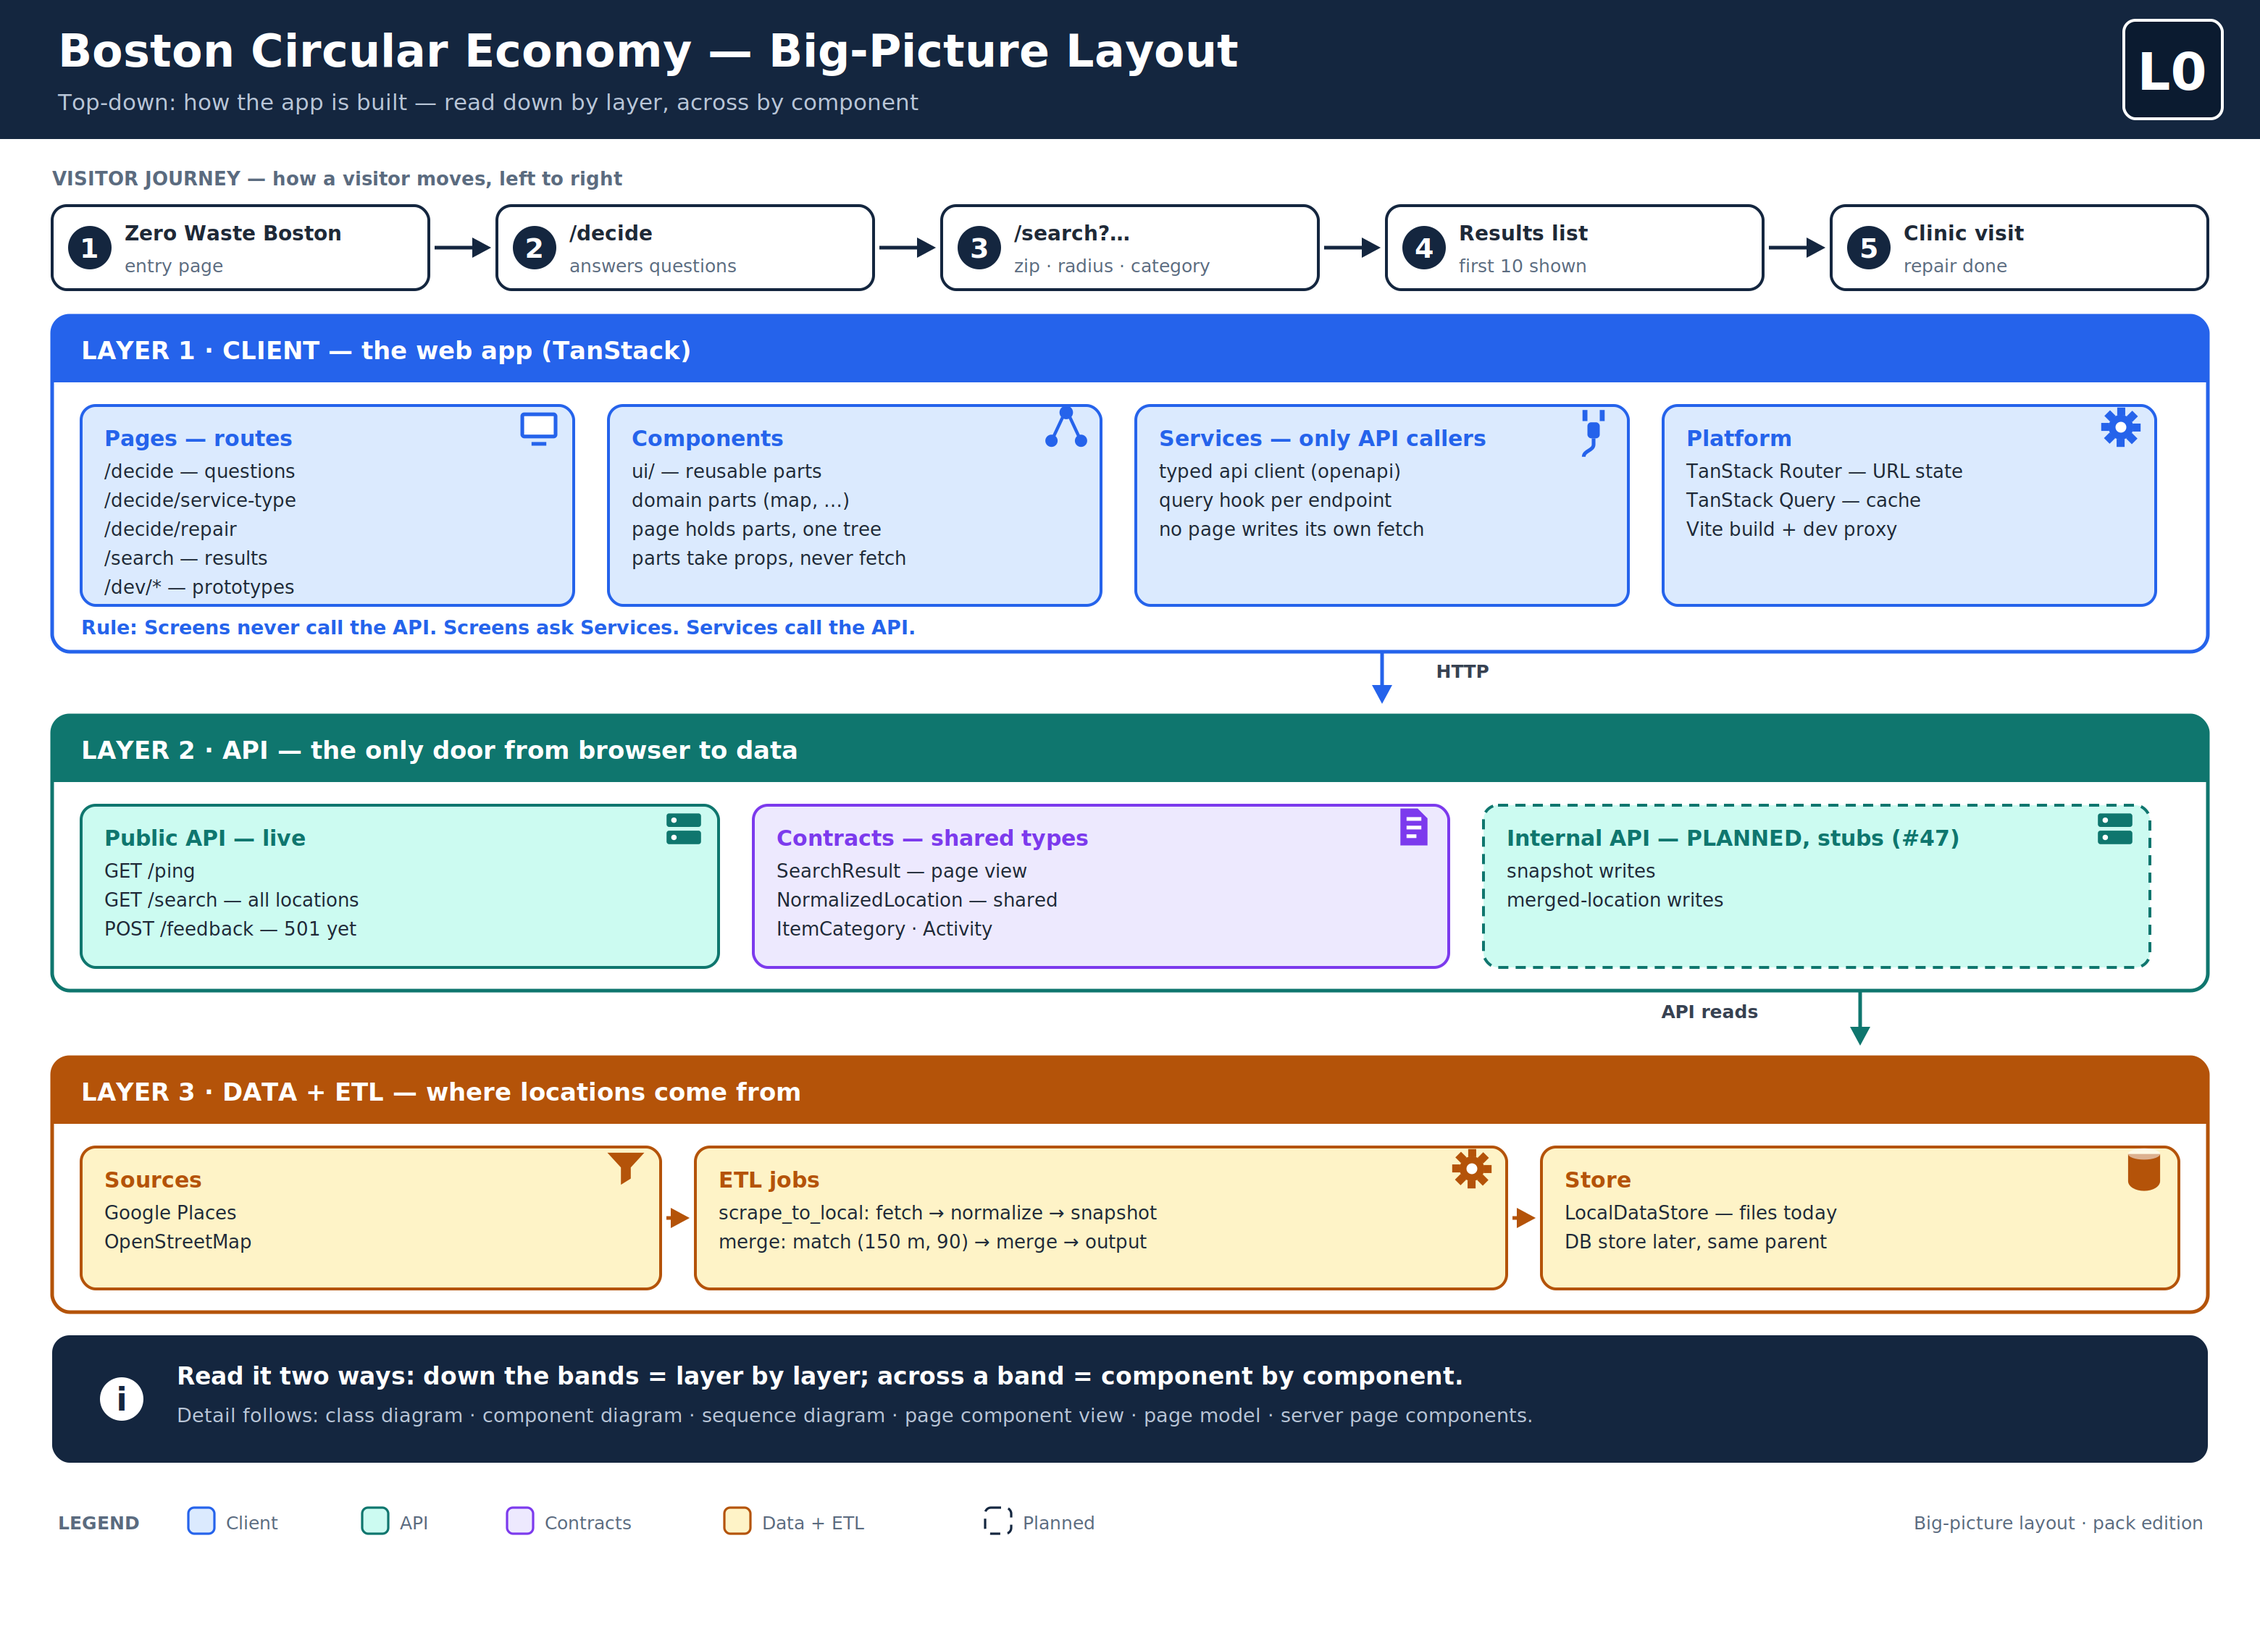
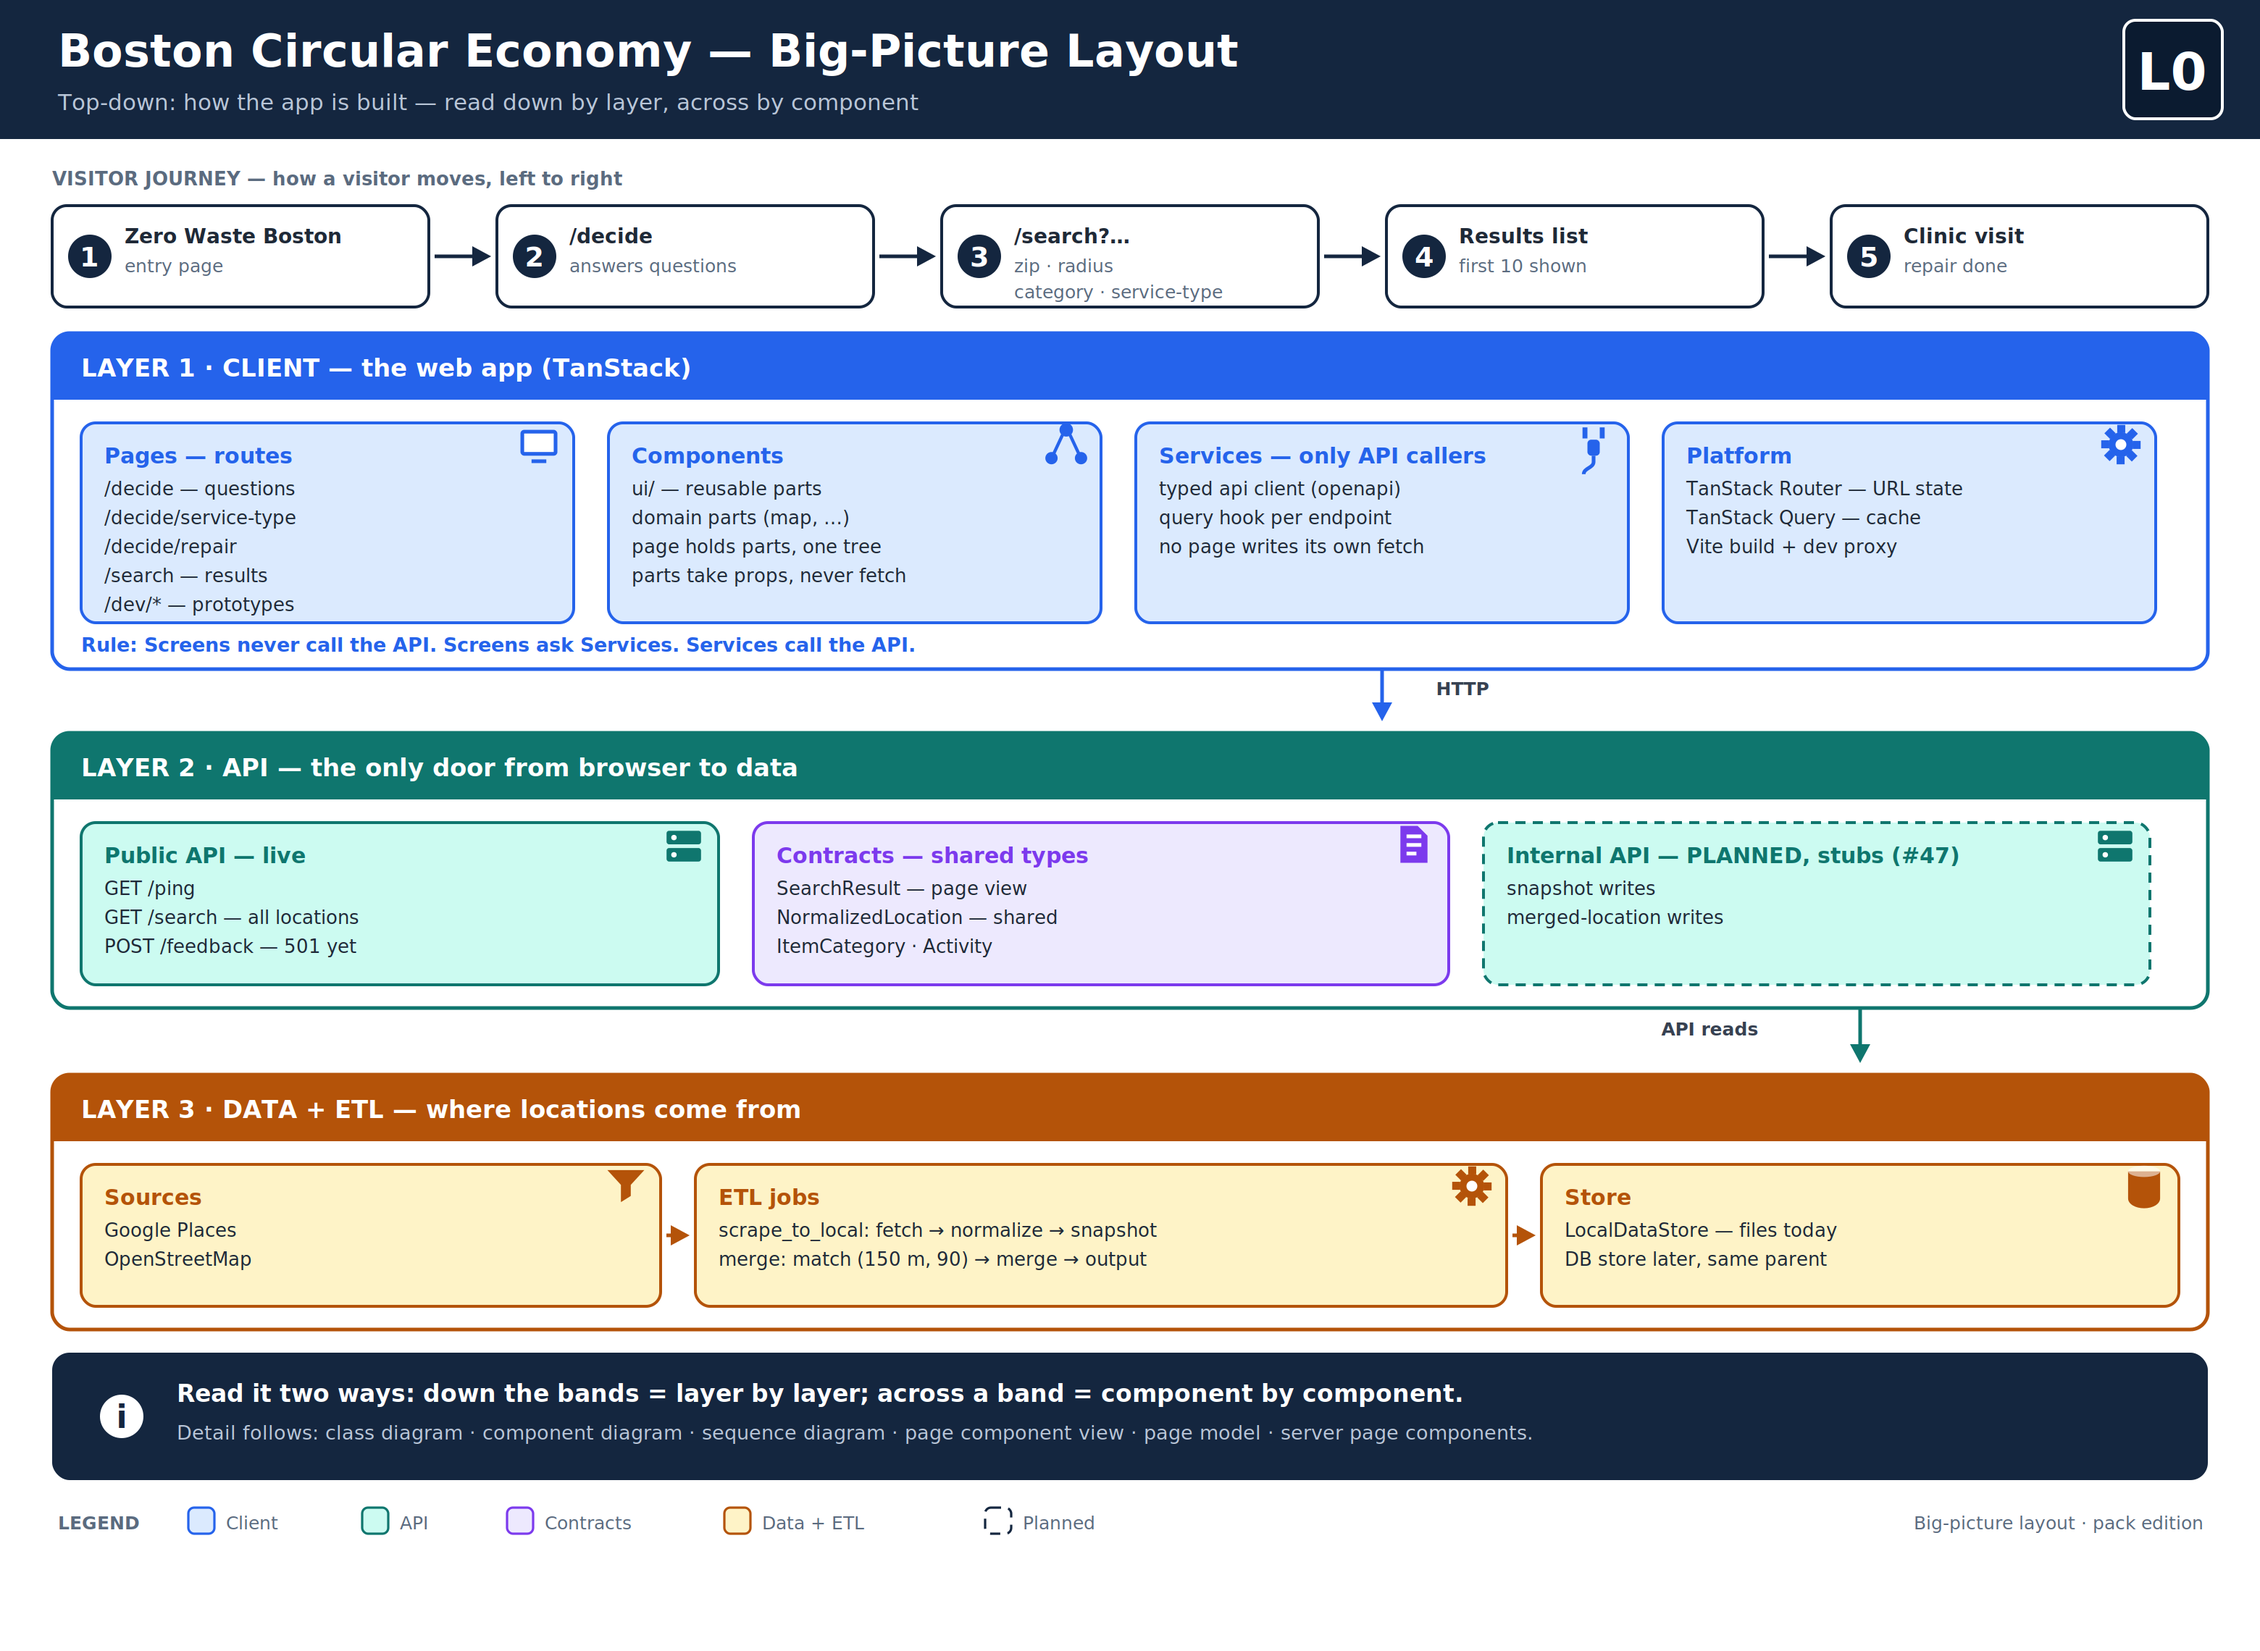
docs: show all four search params; map service-type to Activity

Changed region(s): [[0.0, 0.1246, 0.9949, 0.9031]]

diff --git a/docs/architecture/build_pack_layout.py b/docs/architecture/build_pack_layout.py
@@ -20,23 +20,25 @@ pg.header("Boston Circular Economy — Big-Picture Layout",
 pg.text(36, 128, "VISITOR JOURNEY — how a visitor moves, left to right",
         size=13, fill=MUTED, weight="bold")
 stages = [
-    ("Zero Waste Boston", "entry page"),
-    ("/decide", "answers questions"),
-    ("/search?…", "zip · radius · category"),
-    ("Results list", "first 10 shown"),
-    ("Clinic visit", "repair done"),
+    ("Zero Waste Boston", "entry page", None),
+    ("/decide", "answers questions", None),
+    ("/search?…", "zip · radius", "category · service-type"),
+    ("Results list", "first 10 shown", None),
+    ("Clinic visit", "repair done", None),
 ]
-for i, (t, sub) in enumerate(stages):
+for i, (t, sub, sub2) in enumerate(stages):
     x = 36 + i * 307
-    pg.rect(x, 142, 260, 58, "white", NAVY, 2, rx=10)
-    pg.num_badge(x + 26, 171, i + 1, r=15)
-    pg.text(x + 50, 166, t, size=14, weight="bold")
+    pg.rect(x, 142, 260, 70, "white", NAVY, 2, rx=10)
+    pg.num_badge(x + 26, 177, i + 1, r=15)
+    pg.text(x + 50, 168, t, size=14, weight="bold")
     pg.text(x + 50, 188, sub, size=12.5, fill=MUTED)
+    if sub2:
+        pg.text(x + 50, 206, sub2, size=12.5, fill=MUTED)
     if i < 4:
-        pg.arrow(x + 264, 171, x + 303, 171, color=NAVY, sw=2.5)
+        pg.arrow(x + 264, 177, x + 303, 177, color=NAVY, sw=2.5)
 
 # ---- Layer 1: Client ----
-pg.panel(36, 218, 1488, 232, "LAYER 1 · CLIENT — the web app (TanStack)", stroke=CLIENT[0])
+pg.panel(36, 230, 1488, 232, "LAYER 1 · CLIENT — the web app (TanStack)", stroke=CLIENT[0])
 boxes = [
     ("Pages — routes", "screen", [
         "/decide — questions",
@@ -64,56 +66,56 @@ boxes = [
 ]
 for j, (title, kind, lines) in enumerate(boxes):
     x = 56 + j * 364
-    y = 280
+    y = 292
     top = pg.panel_plain(x, y, 340, 138, CLIENT, title)
     pg.icon(kind, x + 316, y + 15, CLIENT[0], s=0.85)
     for k, ln in enumerate(lines):
         pg.text(x + 16, top + 22 + k * 20, ln, size=13)
-pg.text(56, 438, "Rule: Screens never call the API. Screens ask Services. Services call the API.",
+pg.text(56, 450, "Rule: Screens never call the API. Screens ask Services. Services call the API.",
         size=13.5, fill=CLIENT[0], weight="bold")
 
-pg.down_arrow(954, 450, 486, color=CLIENT[0], sw=2.5)
-pg.label(1010, 468, "HTTP")
+pg.down_arrow(954, 462, 498, color=CLIENT[0], sw=2.5)
+pg.label(1010, 480, "HTTP")
 
 # ---- Layer 2: API ----
-pg.panel(36, 494, 1488, 190, "LAYER 2 · API — the only door from browser to data", stroke=API[0])
-top = pg.panel_plain(56, 556, 440, 112, API, "Public API — live")
-pg.icon("server", 56 + 416, 556 + 15, API[0], s=0.85)
+pg.panel(36, 506, 1488, 190, "LAYER 2 · API — the only door from browser to data", stroke=API[0])
+top = pg.panel_plain(56, 568, 440, 112, API, "Public API — live")
+pg.icon("server", 56 + 416, 568 + 15, API[0], s=0.85)
 for k, ln in enumerate(["GET /ping", "GET /search — all locations", "POST /feedback — 501 yet"]):
     pg.text(72, top + 22 + k * 20, ln, size=13)
-top = pg.panel_plain(520, 556, 480, 112, CONTRACT, "Contracts — shared types")
-pg.icon("doc", 520 + 456, 556 + 15, CONTRACT[0], s=0.85)
+top = pg.panel_plain(520, 568, 480, 112, CONTRACT, "Contracts — shared types")
+pg.icon("doc", 520 + 456, 568 + 15, CONTRACT[0], s=0.85)
 for k, ln in enumerate(["SearchResult — page view", "NormalizedLocation — shared", "ItemCategory · Activity"]):
     pg.text(536, top + 22 + k * 20, ln, size=13)
-pg.rect(1024, 556, 460, 112, API[1], API[0], 2, rx=10, dash=True)
-pg.text(1040, 584, "Internal API — PLANNED, stubs (#47)", size=15, fill=API[0], weight="bold")
-pg.icon("server", 1024 + 436, 556 + 15, API[0], s=0.85)
+pg.rect(1024, 568, 460, 112, API[1], API[0], 2, rx=10, dash=True)
+pg.text(1040, 596, "Internal API — PLANNED, stubs (#47)", size=15, fill=API[0], weight="bold")
+pg.icon("server", 1024 + 436, 568 + 15, API[0], s=0.85)
 for k, ln in enumerate(["snapshot writes", "merged-location writes"]):
-    pg.text(1040, 606 + k * 20, ln, size=13)
+    pg.text(1040, 618 + k * 20, ln, size=13)
 
-pg.down_arrow(1284, 684, 722, color=API[0], sw=2.5)
-pg.label(1180, 703, "API reads")
+pg.down_arrow(1284, 696, 734, color=API[0], sw=2.5)
+pg.label(1180, 715, "API reads")
 
 # ---- Layer 3: Data + ETL ----
-pg.panel(36, 730, 1488, 176, "LAYER 3 · DATA + ETL — where locations come from", stroke=DATA[0])
-top = pg.panel_plain(56, 792, 400, 98, DATA, "Sources")
-pg.icon("funnel", 56 + 376, 792 + 15, DATA[0], s=0.85)
+pg.panel(36, 742, 1488, 176, "LAYER 3 · DATA + ETL — where locations come from", stroke=DATA[0])
+top = pg.panel_plain(56, 804, 400, 98, DATA, "Sources")
+pg.icon("funnel", 56 + 376, 804 + 15, DATA[0], s=0.85)
 for k, ln in enumerate(["Google Places", "OpenStreetMap"]):
     pg.text(72, top + 22 + k * 20, ln, size=13)
-top = pg.panel_plain(480, 792, 560, 98, DATA, "ETL jobs")
-pg.icon("gear", 480 + 536, 792 + 15, DATA[0], s=0.85)
+top = pg.panel_plain(480, 804, 560, 98, DATA, "ETL jobs")
+pg.icon("gear", 480 + 536, 804 + 15, DATA[0], s=0.85)
 for k, ln in enumerate(["scrape_to_local: fetch → normalize → snapshot",
                         "merge: match (150 m, 90) → merge → output"]):
     pg.text(496, top + 22 + k * 20, ln, size=13)
-top = pg.panel_plain(1064, 792, 440, 98, DATA, "Store")
-pg.icon("db", 1064 + 416, 792 + 15, DATA[0], s=0.85)
+top = pg.panel_plain(1064, 804, 440, 98, DATA, "Store")
+pg.icon("db", 1064 + 416, 804 + 15, DATA[0], s=0.85)
 for k, ln in enumerate(["LocalDataStore — files today", "DB store later, same parent"]):
     pg.text(1080, top + 22 + k * 20, ln, size=13)
-pg.arrow(460, 841, 476, 841, color=DATA[0], sw=2.5)
-pg.arrow(1044, 841, 1060, 841, color=DATA[0], sw=2.5)
+pg.arrow(460, 853, 476, 853, color=DATA[0], sw=2.5)
+pg.arrow(1044, 853, 1060, 853, color=DATA[0], sw=2.5)
 
 # ---- Rule strip ----
-pg.rule_strip(922,
+pg.rule_strip(934,
               "Read it two ways: down the bands = layer by layer; across a band = component by component.",
               "Detail follows: class diagram · component diagram · sequence diagram · page component view · page model · server page components.")
 

diff --git a/docs/architecture/README.md b/docs/architecture/README.md
@@ -53,13 +53,21 @@ never reads files directly.
 - Public API, live now: GET /ping, GET /search, POST /feedback.
   GET /search returns all locations today. It takes no parameters
   yet; the parameter contract is issue #75. POST /feedback returns
-  501 yet. It is not implemented.
+  501 yet. It is not implemented. Route name decision (2026-10-29):
+  the route stays GET /search. Issue #75 calls it
+  'service-locations'; that wording refers to this route. A rename
+  would touch server, client, and docs for no functional gain, and
+  the page route is /search, so one name serves both. A rename later
+  is a small refactor if the team wants it.
 - Contracts are the shared types. SearchResult is the page view of
   a location. NormalizedLocation is the shared shape between ETL
   and the API. ItemCategory names what a location handles (shoes,
   electronics, clothing, books, furniture, tools). Activity names
   what a visitor can do there (free or paid repair, donation drop
   or pick, resale buy or sell, refill, borrowing, renting, lending).
+- Service-type mapping (issue #75): repair is repair_free and
+  repair_paid; reuse is resale_buy, resale_sell, borrowing, renting,
+  lending, and refill; donate is donation_drop and donation_pick.
 - Internal API, planned, stubs only (issue #47): snapshot writes
   and merged-location writes for pipeline and admin use.
 
